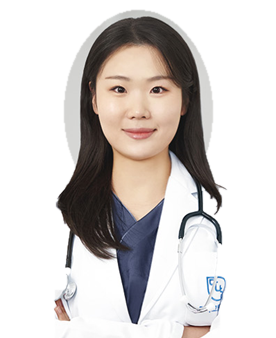
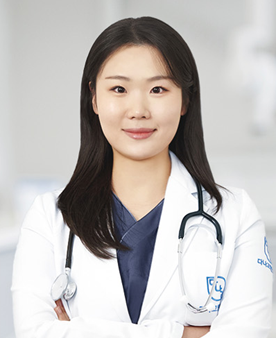
Add files via upload

diff --git a/index.html b/index.html
@@ -110,28 +110,28 @@
 </div>
 <div class="doctors-grid">
 <article class="doctor-card">
-<div class="doctor-photo"><img alt="장혜민 진료원장 프로필 사진" loading="lazy" src="doctor-1.jpg"/></div>
+<div class="doctor-photo"><img alt="장혜민 진료원장 프로필 사진" loading="lazy" src="doctor-1.png"/></div>
 <div class="doctor-info">
 <span class="doctor-role"></span><h3>장혜민</h3><p class="doctor-title">진료원장</p>
 <ul class="doctor-bio"><li>경희대학교 한의학과 학사 졸업</li><li>現 다나고한의원 진료원장</li><li>대한한의학회 회원</li><li>한방재활의학과학회 회원</li><li>한방비만학회 회원</li></ul>
 </div>
 </article>
 <article class="doctor-card">
-<div class="doctor-photo"><img alt="김지수 진료원장 프로필 사진" loading="lazy" src="doctor-2.jpg"/></div>
+<div class="doctor-photo"><img alt="김지수 진료원장 프로필 사진" loading="lazy" src="doctor-2.png"/></div>
 <div class="doctor-info">
 <span class="doctor-role"></span><h3>김지수</h3><p class="doctor-title">진료원장</p>
 <ul class="doctor-bio"><li>경희대학교 한의학과 학사 졸업</li><li>現 다나고한의원 진료원장</li><li>前 천안 바른한방병원 진료원장</li><li>前 수원 안목한의원 진료원장</li><li>한방비만학회 회원</li><li>대한스포츠한의학회 회원</li></ul>
 </div>
 </article>
 <article class="doctor-card">
-<div class="doctor-photo"><img alt="김진규 대표원장 프로필 사진" loading="lazy" src="doctor-3.jpg"/></div>
+<div class="doctor-photo"><img alt="김진규 대표원장 프로필 사진" loading="lazy" src="doctor-3.png"/></div>
 <div class="doctor-info">
 <span class="doctor-role"></span><h3>김진규</h3><p class="doctor-title">대표원장</p>
 <ul class="doctor-bio"><li>경희대학교 한의학과 석사 졸업</li><li>現 다나고한의원 대표원장</li><li>前 아산시 보건소 공중보건의사</li><li>前 강남경희한의원 진료원장</li><li>한방비만학회 정회원</li><li>척추신경추나의학회 정회원</li></ul>
 </div>
 </article>
 <article class="doctor-card">
-<div class="doctor-photo"><img alt="방재호 진료원장 프로필 사진" loading="lazy" src="doctor-4.jpg"/></div>
+<div class="doctor-photo"><img alt="방재호 진료원장 프로필 사진" loading="lazy" src="doctor-4.png"/></div>
 <div class="doctor-info">
 <span class="doctor-role"></span><h3>방재호</h3><p class="doctor-title">진료원장</p>
 <ul class="doctor-bio"><li>경희대학교 한의학과 학사 졸업</li><li>現 다나고한의원 진료원장</li><li>前 남원시 보건소 한의과 대표과장</li><li>척추신경추나의학회 정회원</li><li>미국 근골격계 초음파 자격증 보유</li><li>대한침도의학회 정회원</li></ul>

diff --git a/doctors.html b/doctors.html
@@ -8,28 +8,28 @@
 </div>
 <div class="doctors-grid">
 <article class="doctor-card">
-<div class="doctor-photo"><img alt="장혜민 진료원장 프로필 사진" loading="lazy" src="doctor-1.jpg"/></div>
+<div class="doctor-photo"><img alt="장혜민 진료원장 프로필 사진" loading="lazy" src="doctor-1.png"/></div>
 <div class="doctor-info">
 <span class="doctor-role"></span><h3>장혜민</h3><p class="doctor-title">진료원장</p>
 <ul class="doctor-bio"><li>경희대학교 한의학과 학사 졸업</li><li>現 다나고한의원 진료원장</li><li>대한한의학회 회원</li><li>한방재활의학과학회 회원</li><li>한방비만학회 회원</li></ul>
 </div>
 </article>
 <article class="doctor-card">
-<div class="doctor-photo"><img alt="김지수 진료원장 프로필 사진" loading="lazy" src="doctor-2.jpg"/></div>
+<div class="doctor-photo"><img alt="김지수 진료원장 프로필 사진" loading="lazy" src="doctor-2.png"/></div>
 <div class="doctor-info">
 <span class="doctor-role"></span><h3>김지수</h3><p class="doctor-title">진료원장</p>
 <ul class="doctor-bio"><li>경희대학교 한의학과 학사 졸업</li><li>現 다나고한의원 진료원장</li><li>前 천안 바른한방병원 진료원장</li><li>前 수원 안목한의원 진료원장</li><li>한방비만학회 회원</li><li>대한스포츠한의학회 회원</li></ul>
 </div>
 </article>
 <article class="doctor-card">
-<div class="doctor-photo"><img alt="김진규 대표원장 프로필 사진" loading="lazy" src="doctor-3.jpg"/></div>
+<div class="doctor-photo"><img alt="김진규 대표원장 프로필 사진" loading="lazy" src="doctor-3.png"/></div>
 <div class="doctor-info">
 <span class="doctor-role"></span><h3>김진규</h3><p class="doctor-title">대표원장</p>
 <ul class="doctor-bio"><li>경희대학교 한의학과 석사 졸업</li><li>現 다나고한의원 대표원장</li><li>前 아산시 보건소 공중보건의사</li><li>前 강남경희한의원 진료원장</li><li>한방비만학회 정회원</li><li>척추신경추나의학회 정회원</li></ul>
 </div>
 </article>
 <article class="doctor-card">
-<div class="doctor-photo"><img alt="방재호 진료원장 프로필 사진" loading="lazy" src="doctor-4.jpg"/></div>
+<div class="doctor-photo"><img alt="방재호 진료원장 프로필 사진" loading="lazy" src="doctor-4.png"/></div>
 <div class="doctor-info">
 <span class="doctor-role"></span><h3>방재호</h3><p class="doctor-title">진료원장</p>
 <ul class="doctor-bio"><li>경희대학교 한의학과 학사 졸업</li><li>現 다나고한의원 진료원장</li><li>前 남원시 보건소 한의과 대표과장</li><li>척추신경추나의학회 정회원</li><li>미국 근골격계 초음파 자격증 보유</li><li>대한침도의학회 정회원</li></ul>

diff --git a/styles.css b/styles.css
@@ -148,3 +148,15 @@
 /* v9: consistent solid pastel blue background for original doctor portraits */
 .doctor-photo{background:#d2dff4!important}
 .doctor-photo img{background:#d2dff4;object-fit:cover}
+
+/* v10: original, unretouched portrait pixels; no artificial background removal */
+.doctor-photo{background:#f5f8fc!important;overflow:hidden;display:flex;align-items:flex-end;justify-content:center}
+.doctor-photo img{display:block;width:100%;height:100%;object-fit:contain!important;object-position:center bottom!important;background:transparent!important}
+.doctor-card{border:1px solid #e3eaf4;box-shadow:0 8px 28px rgba(24,73,140,.045)}
+/* Elegant and restrained premium hero treatment */
+.hero{position:relative;overflow:hidden;background:linear-gradient(112deg,#f9fcff 0%,#edf5ff 58%,#e1ecfc 100%)}
+.hero:before{content:'';position:absolute;width:540px;height:540px;right:-160px;top:-240px;border-radius:50%;border:1px solid rgba(43,106,191,.12);box-shadow:0 0 0 65px rgba(255,255,255,.13),0 0 0 140px rgba(92,151,220,.045);pointer-events:none}
+.hero:after{content:'';position:absolute;right:7%;bottom:8%;width:190px;height:190px;border-radius:50%;background:radial-gradient(circle,rgba(73,134,212,.10),transparent 68%);pointer-events:none}
+.hero-inner{position:relative;z-index:1}
+.hero h1{max-width:1050px;text-shadow:0 2px 20px rgba(255,255,255,.55)}
+@media(max-width:640px){.hero:before{width:320px;height:320px;right:-185px;top:-130px}.doctor-photo{height:330px!important}}

diff --git a/README.md b/README.md
@@ -1,5 +1,6 @@
-다나고한의원 홈페이지 v9
+다나고한의원 v10 — 원본 얼굴 보존 버전
 
-기존 디자인 및 약력 유지. 원장 사진 4장의 배경을 단색 #D2DFF4로 변경하고 JPG로 저장해 브라우저의 투명도 렌더링 문제를 피했습니다.
+의료진 사진은 사용자가 제공한 개별 원본 사진을 수정 없이 그대로 사용했습니다. 따라서 얼굴 변형이 없고 원본의 연회색 사진 배경은 남아 있습니다. 투명 배경 제거를 적용하지 않았습니다.
+메인 배경은 기존 레이아웃을 유지하며 은은한 블루 그라데이션/원형 장식만 추가했습니다.
 
-ZIP을 풀고 파일 전체를 GitHub 저장소 최상위에 업로드한 후 Commit changes를 누르세요.
+GitHub 저장소 루트에 압축 해제된 파일 전체를 업로드하세요. 기존 doctor-*.jpg는 더 이상 사용되지 않습니다.
